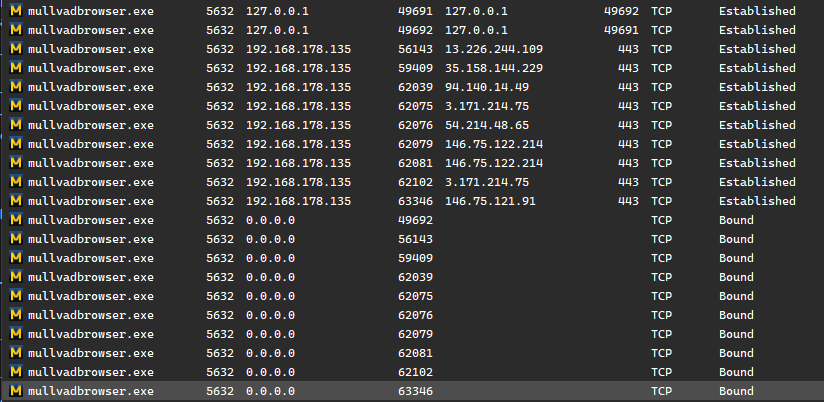
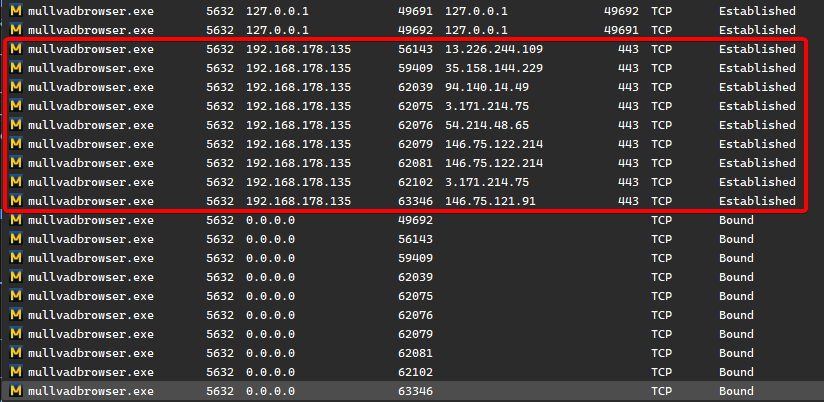
fwRules fix

Changed region(s): [[0.0, 0.0896, 1.0, 0.5373]]

diff --git a/security/desc.md b/security/desc.md
@@ -32,9 +32,10 @@ Start by downloading & opening [fwRules.ps1](https://github.com/nohuto/win-confi
 
 Then download [System Informer](https://github.com/winsiderss/systeminformer/releases) since that makes the setup/debugging a lot easier. Go into the '*Network*' section which shows all connections/states, find out your first few rules via it:
 
-1. Open all kind of apps which you want to have a network connection (keep it minimal)
-2. Look at the '*Network*' section to see what ports/protocols they use
-3. Add them to `$rules` (I've added some examples to it already, remove them if you don't need them)
+1. Reset your firewall via `.\fwRules.ps1 -reset`
+2. Open all kind of apps which you want to have a network connection (keep it minimal)
+3. Look at the '*Network*' section to see what ports/protocols they use
+4. Add them to `$rules` (I've added some examples to it already, remove them if you don't need them)
 
 For example here you can ignore the lines with `127.0.0.1` LocalAddress, means the `$rule` for it would be (edit `Program`):
 
@@ -89,7 +90,7 @@ Here we can see that we've to allow RemotePort `3724` (outbound, TCP):
 @{ DisplayName = 'Overwatch TCP'; Direction = 'Outbound'; Action = 'Allow'; Program = 'C:\Program Files (x86)\Steam\steamapps\common\Overwatch\Overwatch.exe'; Protocol = 'TCP'; RemotePort = @('443', '3724', '1119') },
 ```
 
-#### Protocol Number
+#### Protocol Numbers
 
 | Service | Protocol Number |
 | --- | --- |
